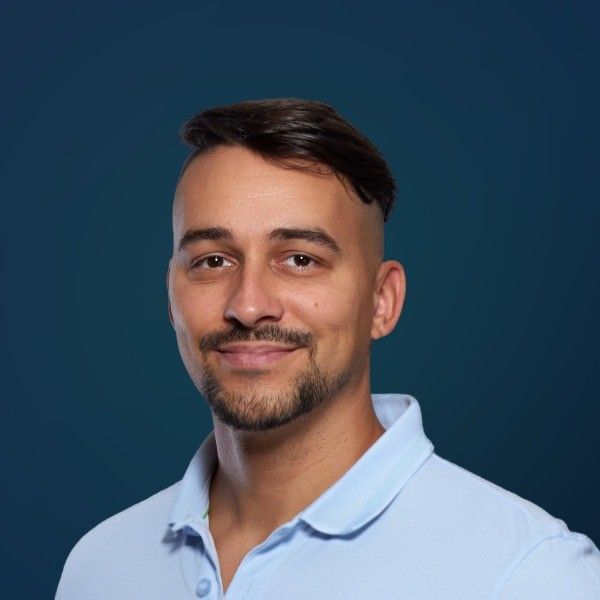
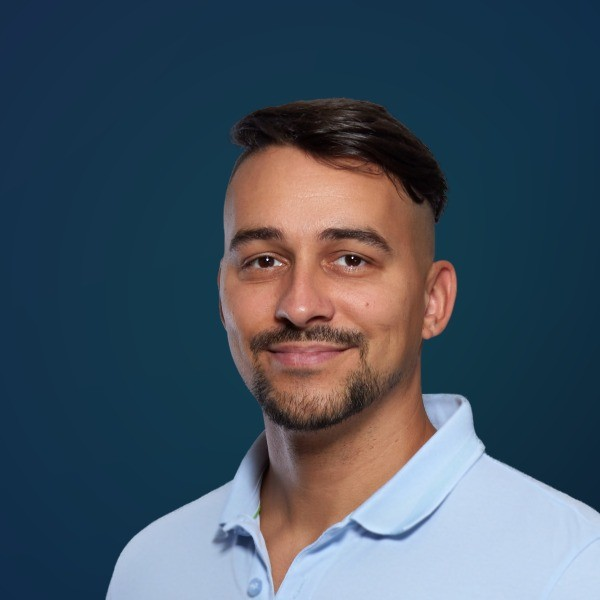
Profilovka v kolečkách: obličej (nos) na středu

diff --git a/docs/fotky-umisteni.md b/docs/fotky-umisteni.md
@@ -107,7 +107,7 @@ Hodnoty jsou v CSS pixelech na webu, měřené od levého horního rohu rámu.
 Stejný soubor `src/assets/photos/patrik-profilovka.jpg` (600 × 600, snímek 330 z finalni-plne, hlava ~17 % od horního okraje kvůli kruhovému ořezu) používají
 všechna kulatá kolečka s fotkou: `ContactSection.astro`, `financni-check-up.astro`,
 `clanky/[slug].astro`, `article/Praxe.astro`. Nová profilovka = přepsat tenhle
-jeden soubor (čtverec, obličej na středu, nad hlavou vzduch ~17 %). `patrik-pristup-pece.webp` (snímek 312
+jeden soubor (čtverec, nos na svislé ose středu — hlava je natočená, takže silueta hlavy sedí mírně vpravo; nad hlavou vzduch ~17 %). `patrik-pristup-pece.webp` (snímek 312
 pro kolečka do 11. 10. 2026) už se nepoužívá.
 
 Nad 1440 px se hodnoty nemění (rám má stejnou velikost, jen se posouvá
